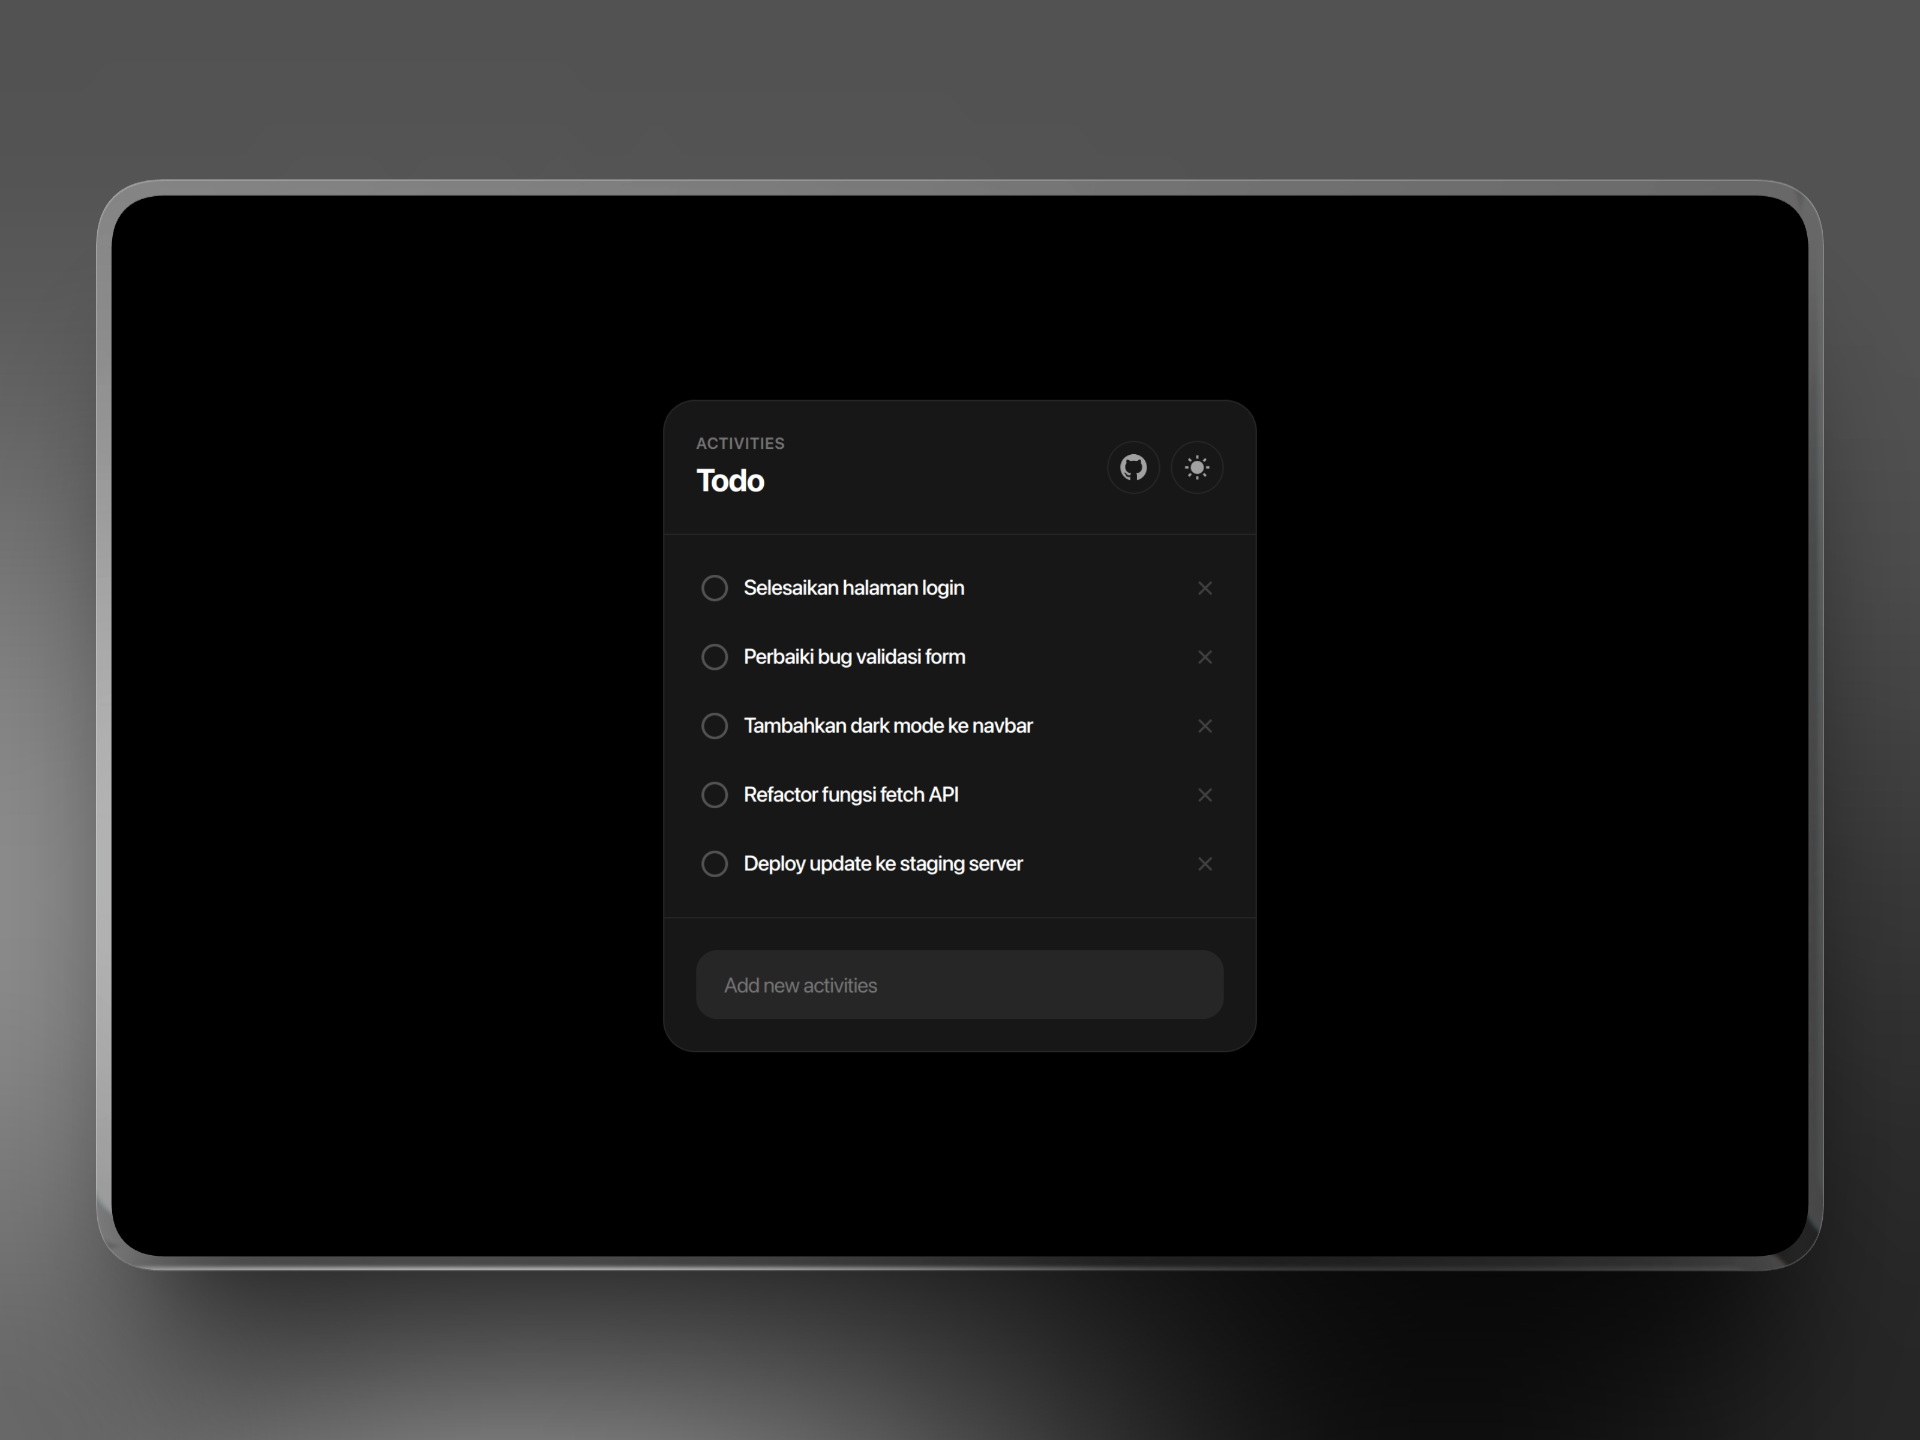
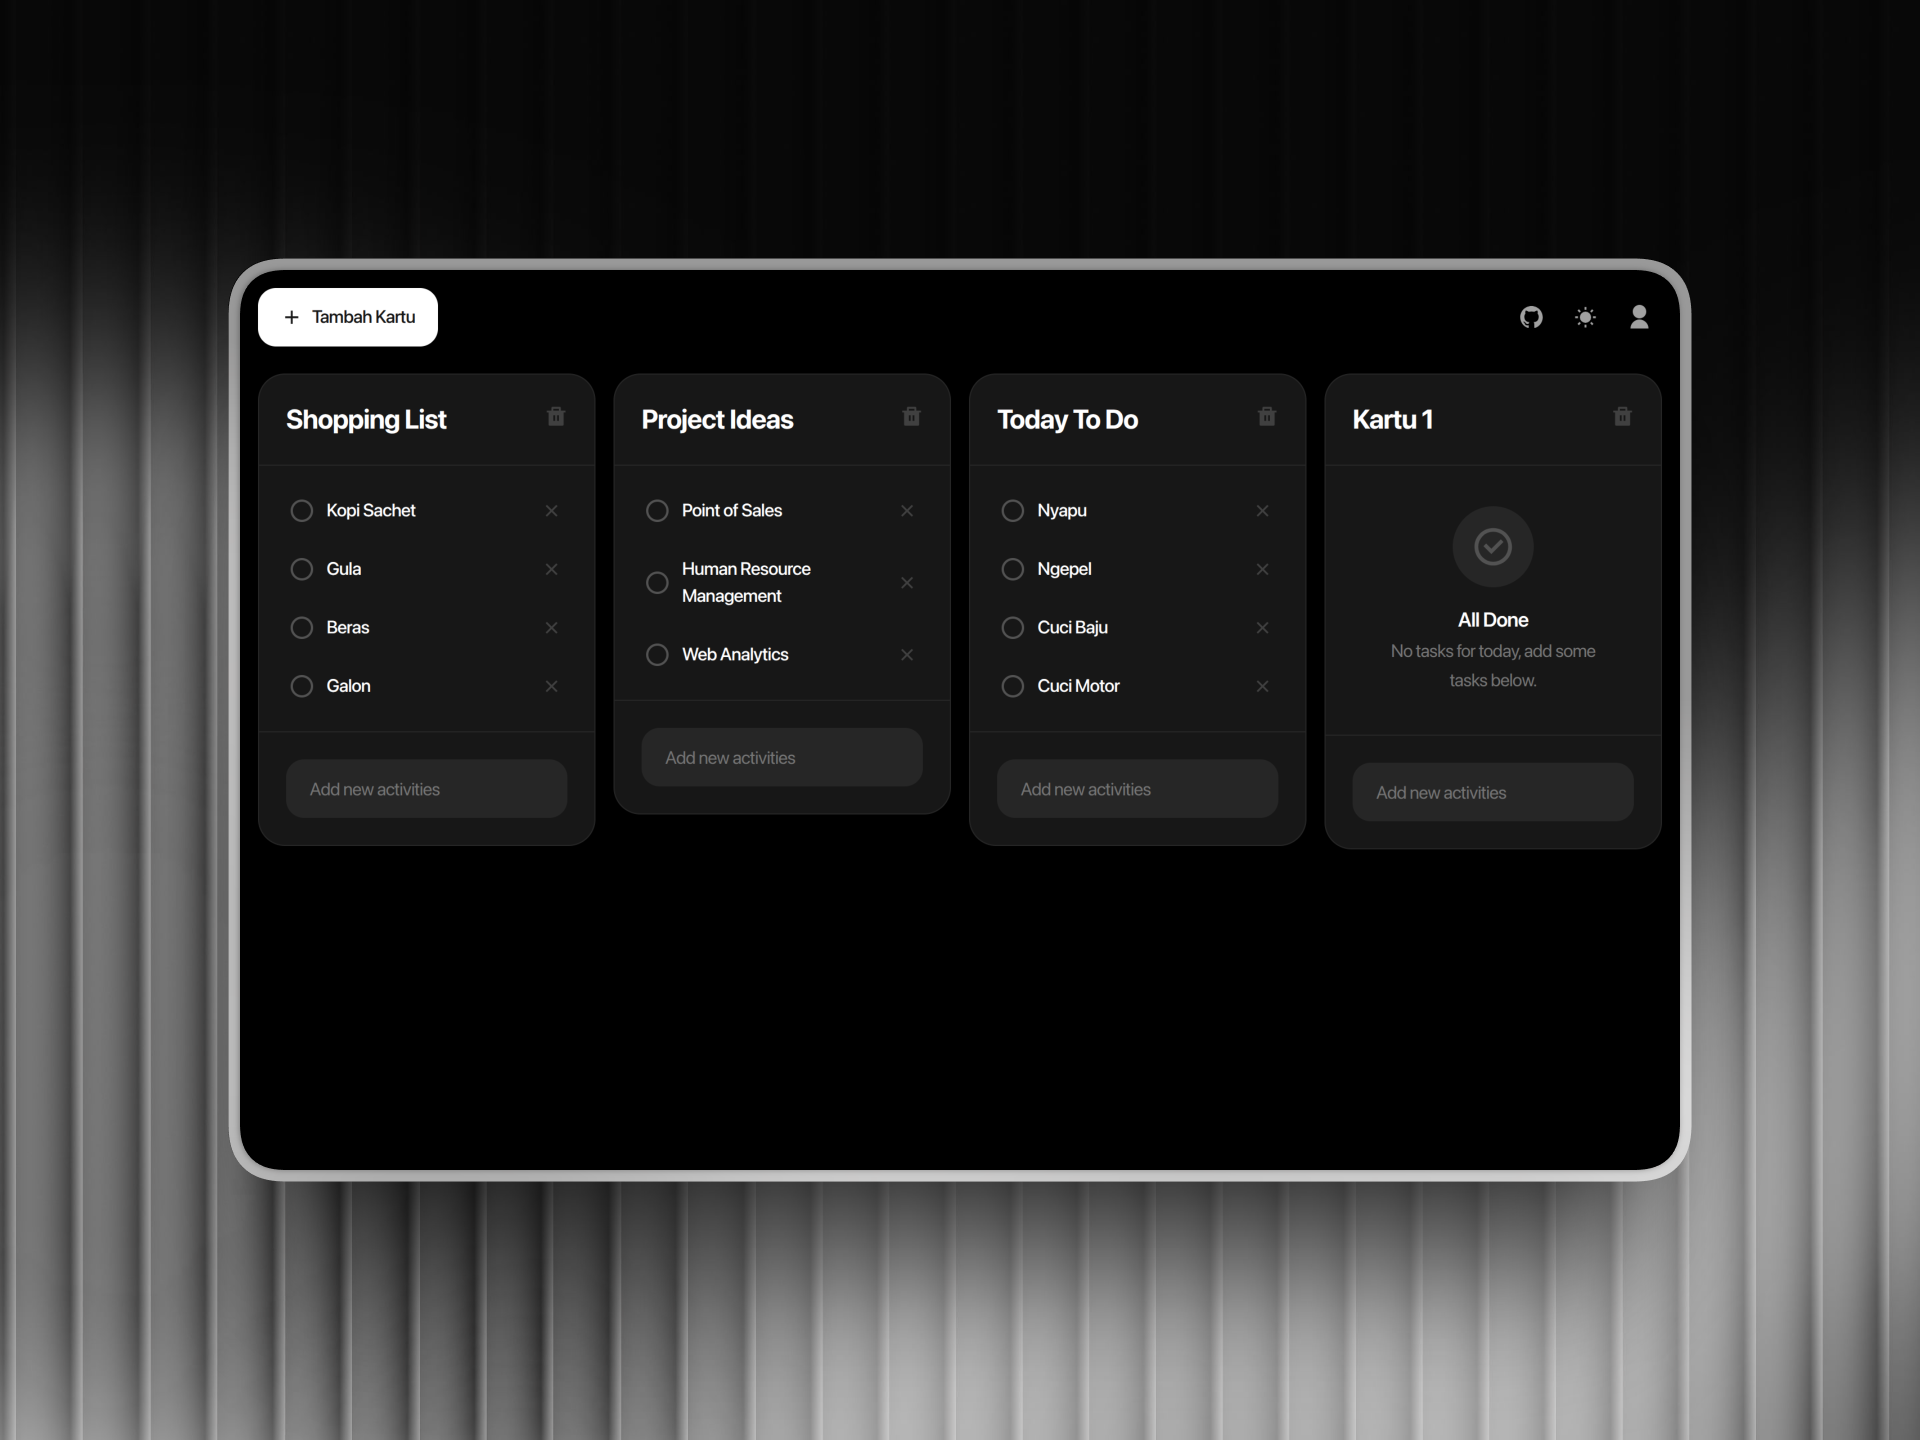
add chnaglog

diff --git a/src/components/app/AppNavbar.vue b/src/components/app/AppNavbar.vue
@@ -32,7 +32,7 @@ async function onLogout() {
         title="Repository Github"
         icon="ri:github-fill"
         tag="a"
-        href="https://github.com/ibrahimalanshor/v-todo"
+        href="https://github.com/narakode/v-todo"
       />
 
       <BaseIconButton

diff --git a/src/components/layouts/LayoutAuth.vue b/src/components/layouts/LayoutAuth.vue
@@ -13,7 +13,7 @@ import { Icon } from '@iconify/vue';
         icon="ri:github-fill"
         tag="a"
         :bordered="false"
-        href="https://github.com/ibrahimalanshor/v-todo"
+        href="https://github.com/narakode/v-todo"
       />
       <BaseIconButton
         :bordered="false"

diff --git a/README.md b/README.md
@@ -1,5 +1,13 @@
 # V-Todo
 
-Aplikasi todo berbasis web sederhana yang dibuat dengan Vue.Js. Cek di [https://ibrahimalanshor.github.io/v-todo](https://ibrahimalanshor.github.io/v-todo).
+Simple, card-based task management. Try it free at http://v-todo/narakode.id.
+
+## Features
+
+- Multiple boards
+- Tasks per board
+- Authentication
+
+## Screnshot
 
 ![Shot](./shot.png)

diff --git a/CHANGELOG.md b/CHANGELOG.md
@@ -1,0 +1,8 @@
+# CHANGELOG
+
+# [1.0.0]
+
+- Authentication
+- Supabase data source
+- Cards
+- Tasks per card